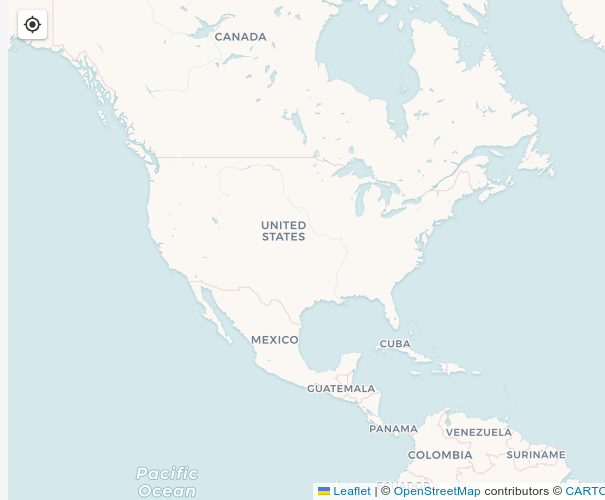
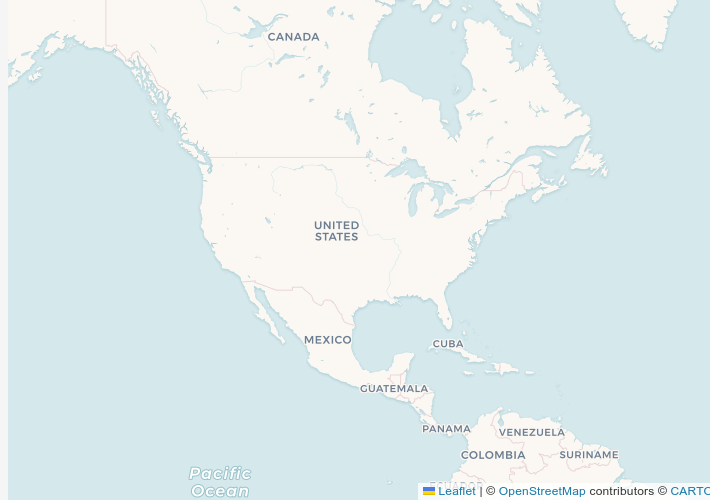
map placehodler test- need to add location btn

diff --git a/src/components/Maps/MapExternal.jsx b/src/components/Maps/MapExternal.jsx
@@ -1,4 +1,4 @@
-import  { useEffect, useState } from 'react';
+//import  { useEffect, useState } from 'react';
 import L from 'leaflet';
 import iconRetinaUrl from 'leaflet/dist/images/marker-icon-2x.png';
 import iconUrl from 'leaflet/dist/images/marker-icon.png';
@@ -6,25 +6,22 @@ import shadowUrl from 'leaflet/dist/images/marker-shadow.png';
 import { MapContainer, TileLayer } from 'react-leaflet';
 import 'react-tabs/style/react-tabs.css';
 import useStore from 'store/mapStore';
-import LocationButton from './components/LocationButton';
+//import LocationButton from './components/LocationButton';
 import Markers from './components/Markers';
 
 const center = [37.09024, -95.712891];
+function MapPlaceholder() {
+  return (
+    <p>
+      Map of London. <noscript>You need to enable JavaScript to see this map.</noscript>
+    </p>
+  );
+}
 
-const MapExternal = ({ setMapLoaded }) => {
-  const [documentReady, setDocumentReady] = useState(false);
+const MapExternal = ({ setMapLoaded}) => {
   const setMapReady = useStore((state) => state.setMapReady);
 
-  useEffect(() => {
-    if (document.readyState === 'complete') {
-      setDocumentReady(true);
-    } else {
-      const handleLoad = () => setDocumentReady(true);
-      window.addEventListener('load', handleLoad);
 
-      return () => window.removeEventListener('load', handleLoad);
-    }
-  }, []);
 
   const setMap = () => {
     setMapReady(true);
@@ -44,16 +41,16 @@ const MapExternal = ({ setMapLoaded }) => {
 
   return (
     <>
-      {documentReady && (
-        <MapContainer whenReady={setMap} center={center} zoom={3} scrollWheelZoom={false} zoomControl={false} id="map">
+   
+        <MapContainer whenReady={setMap} center={center} zoom={3} scrollWheelZoom={false} zoomControl={false} id="map" placeholder={<MapPlaceholder />}>
           <TileLayer
             attribution='&copy; <a href="https://www.openstreetmap.org/copyright">OpenStreetMap</a> contributors &copy; <a href="https://carto.com/attributions">CARTO</a>'
             url={`https://{s}.basemaps.cartocdn.com/rastertiles/voyager/{z}/{x}/{y}{r}.png`}
           />
           <Markers L={L} />
-          <LocationButton L={L} />
+          {/* <LocationButton L={L} /> */}
         </MapContainer>
-      )}
+  
     </>
   );
 };

diff --git a/src/components/FormWrapper/index.jsx b/src/components/FormWrapper/index.jsx
@@ -1,15 +1,33 @@
 import Grid from '@mui/material/Grid';
-import mapPlaceHolderImg from 'assets/images/map_placeholder.png';
+//import mapPlaceHolderImg from 'assets/images/map_placeholder.png';
 import Box from 'components/Box';
 import NoLocationFound from 'components/Maps/components/NoLocationFound';
-import { useState, lazy} from 'react';
+import { useState, lazy, useEffect} from 'react';
 import useStore from 'store/mapStore';
+//import Button from 'components/Button';
+
 const MapExternal = lazy(() => import('components/Maps/MapExternal'));
 
 function FormWrapper({ form }) {
   const errorMessage = useStore((state) => state.errorMessage);
   const [loaded, setMapLoaded] = useState(false);
+  const [documentReady, setDocumentReady] = useState(false);
 
+    useEffect(() => {
+      if (document.readyState === 'complete') {
+        setDocumentReady(true);
+      } else {
+        const handleLoad = () => setDocumentReady(true);
+        window.addEventListener('load', handleLoad);
+
+        return () => window.removeEventListener('load', handleLoad);
+      }
+    }, []);
+/*   const handleTest = (e) => {
+    e.preventDefault();
+    console.log('test');
+    setDocumentReady(documentReady => !documentReady)
+  }; */
   return (
     <>
       <Box component="section" py={{ xs: 2, sm: 6 }} sx={{ maxWidth: '100%' }}>
@@ -28,13 +46,15 @@ function FormWrapper({ form }) {
                 <Box p={2}>
                   <Box px={{ xs: 0, sm: 0 }} py={{ xs: 2, sm: 3 }}>
                     <div className="map-container">
-                  
-
-                      <MapExternal setMapLoaded={setMapLoaded} />
+                      <MapExternal setMapLoaded={setMapLoaded} loaded={loaded} />
+                      <div id="static"></div>
+                      {documentReady && <MapExternal setMapLoaded={setMapLoaded} loaded={loaded} />}
+                 
                     </div>
                   </Box>
                 </Box>
               </Grid>
+             
             </Grid>
           </Box>
         </Grid>

diff --git a/src/App.jsx b/src/App.jsx
@@ -1,5 +1,5 @@
 
-import { Suspense, useEffect, useState } from "react";
+import { Suspense, useEffect } from "react";
 import useStore from "store/mapStore";
 // react-router components
 import { Navigate, Route, Routes, useLocation } from "react-router-dom";
@@ -8,7 +8,6 @@ import { useEffectOnce } from "react-use";
 // @mui material components
 import CssBaseline from "@mui/material/CssBaseline";
 import { ThemeProvider } from "@mui/material/styles";
-
 import theme from "assets/theme";
 import Loading from "components/Loading";
 import NotFoundPage from "pages/404";
@@ -22,7 +21,7 @@ import DemoPage from "pages/Demo";
 //import WebFont from 'webfontloader';
 export default function App() {
   const { pathname } = useLocation();
-const [reset, setReset] = useState(false)
+//const [reset, setReset] = useState(false)
 
   const resetMapData = useStore((state) => state.resetMapData);
   // Setting page scroll to 0 when changing the route
@@ -32,14 +31,18 @@ const [reset, setReset] = useState(false)
 
     localStorage.setItem('markerData', '[]');
     // Roboto, Helvetica, Arial, sans-serif
-   /*  WebFont.load({
+    /*  WebFont.load({
       google: {
         families: ['Roboto:300,400,500,700', 'Material+Icons', 'Lumanosimo:400'],
       },
-    }); */
-    resetMapData();
-    setReset(true)
+    }); 
+        setTimeout(() => {
+      
+      setReset(true);
+    }, 1000);
     return () => { setReset(false)}
+    */
+    resetMapData();
   }, [pathname]);
   useEffectOnce(() => {
     const setMovieList = async () => {
@@ -64,7 +67,7 @@ const [reset, setReset] = useState(false)
   return (
     <ThemeProvider theme={theme}>
       <CssBaseline />
-      {reset && (
+ 
         <Suspense fallback={<Loading />}>
           <Routes>
             {getRoutes(routes)}
@@ -76,7 +79,7 @@ const [reset, setReset] = useState(false)
             <Route path="/404" element={<NotFoundPage />} />
           </Routes>
         </Suspense>
-      )}
+      
     </ThemeProvider>
   );
 }

diff --git a/src/App.css b/src/App.css
@@ -383,15 +383,17 @@ html, body {margin: 0; padding: 0; overflow-x:hidden}
     max-height: 500px;
 }
       #static {
-        background-image: url('https://firebasestorage.googleapis.com/v0/b/geotools-bc75a.appspot.com/o/images%2Fplaceholder-images%2Fmap-placeholder%2Fmap_placeholder.png?alt=media&token=47c2170e-e00d-4c53-ba7c-323bee86c579');
+        background-image: url('https://firebasestorage.googleapis.com/v0/b/geotools-bc75a.appspot.com/o/images%2Fplaceholder-images%2Fmap-placeholder%2Fmap_placeholder.png?alt=media&token=55984020-7a2a-4e5d-aabb-a82556139b24');
            z-index: 1;
     position: absolute;
     top: 0;
-    left: -8px;
+    left: 0;
     width: 100%;
     height: 100%;
     max-width: 700px!important;
+    /* max-width: 700px!important; */
     background-repeat: no-repeat;
+    background-position: 71% 0%;
       }
 /* ===== Scrollbar CSS ===== */
   /* Firefox */
@@ -429,4 +431,10 @@ body.hide-layers .no-opacity {
 
 #autocomplete-dropdown {
   padding-bottom: 0 !important;
+}
+
+.leaflet-container {
+    background: #fff !important;
+
+    background-color: rgb(255, 255, 255) !important;
 }

diff --git a/src/pages/HomePage/components/Form/index.jsx b/src/pages/HomePage/components/Form/index.jsx
@@ -36,7 +36,6 @@ function Form() {
 
   async function handleSubmit(e) {
     e.preventDefault();
-
     const inputOne = e.target[0].value;
     if (inputOne) {
       setLoading(true);
@@ -191,6 +190,7 @@ function Form() {
           </Grid>
           {/* ============ LatLngInputs ============ */}
           <LatLngInputs readOnly={true} />
+        
         </Grid>
       </Box>
       <MobileScrollTopButton />

diff --git a/src/pages/HomePage/index.jsx b/src/pages/HomePage/index.jsx
@@ -4,6 +4,7 @@ import BaseLayout from "layouts/sections/components/BaseLayout";
 import { useLocation } from "react-router-dom";
 import Form from "./components/Form";
 
+
 function HomePage() {
   const { pathname } = useLocation();
 
